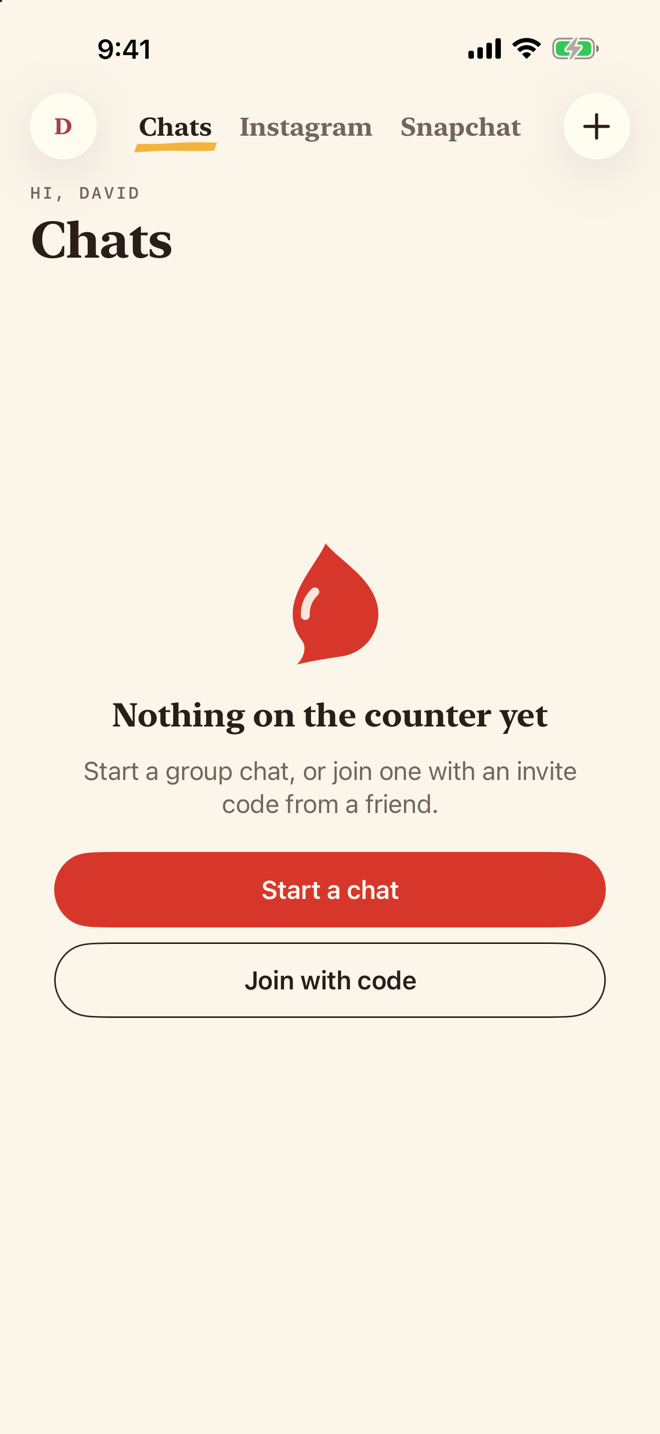
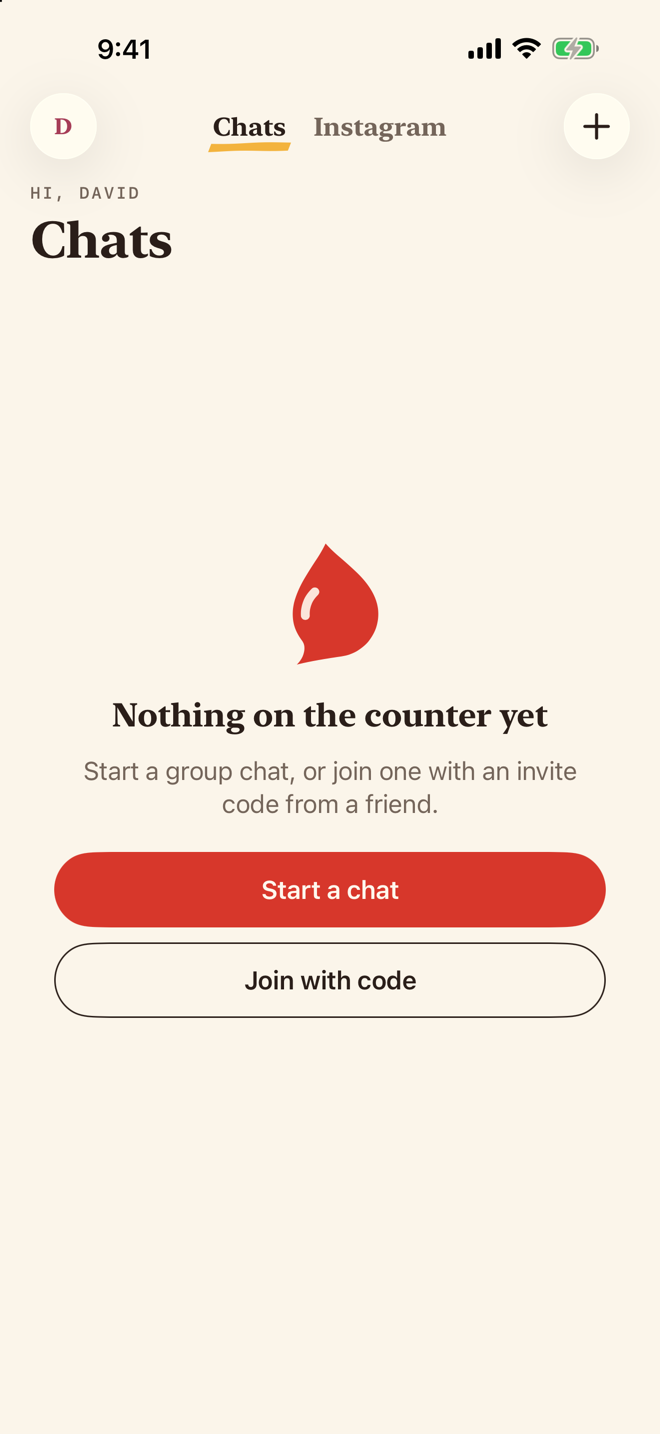
Docs: the two-page pager, and the Instagram page as the way in
DESIGN.md's Pager section and -screen table, the redesign screenshots
(inbox and Instagram page in light, dark and Extra Extra Large, one held
mid-swipe) and the project notes's two lines that still pointed at the camera
button.

Changed region(s): [[0.2121, 0.0614, 0.7879, 0.1227]]

diff --git a/docs/DESIGN.md b/docs/DESIGN.md
@@ -90,20 +90,20 @@ The old purple names (`Theme.accent`, `aiGradient`, `aiDiagonal`, `aiWash`, `ind
 
 ## Pager
 
-After sign-in, the home is three pages side by side: **Chats** (the inbox, first), **Instagram** and **Snapchat** (`ios/Ketchup/Views/HomePager.swift`). Swipe between them or tap a name. The app comes back to the page you were on last (`@AppStorage("home.page")`).
+After sign-in, the home is two pages side by side: **Chats** (the inbox, first) and **Instagram** (`ios/Ketchup/Views/HomePager.swift`). Swipe between them or tap a name. The app comes back to the page you were on last (`@AppStorage("home.page")`).
 
 <p>
 <img src="screens/redesign/inbox-light.png" width="200" alt="Chats, with the switcher in its top bar">
 <img src="screens/redesign/home-swipe-light.png" width="200" alt="Mid-swipe: the mustard mark slides from Chats toward Instagram">
-<img src="screens/redesign/home-snapchat-dark.png" width="200" alt="Snapchat's page for now, dark">
+<img src="screens/redesign/home-instagram-dark.png" width="200" alt="The Instagram page under the switcher, dark">
 </p>
 
 - **The switcher** sits in the middle of the Chats page's top bar, between its glass buttons: the names in New York, ink for the page you're on, `inkSoft` for the rest, and a mustard `MarkerStroke` under the current one that slides along as the pages scroll. Like a bar title it keeps its size past the default text size (long-press shows it big at accessibility sizes). The other pages leave that row free above their own bar.
 - **Paging is the system's** (a paging `ScrollView`). A tap on a name scrolls there with `Motion.settle`, or jumps with Reduce Motion on.
 - **In a chat the pages stay put** and the switcher fades out (`Motion.fade`), so the chat's back swipe works and its title takes the middle of the bar. The Chats page says so through `HomePagerState.locked`.
-- **Over a web page** a sideways swipe still pages, unless the page can scroll sideways itself (zoomed in, a wide carousel): then the page gets it, and the switcher still works. Vertical scrolling and taps are always the page's.
+- **Over a web page** a sideways swipe still pages, unless the page can scroll sideways itself (zoomed in, a wide carousel): then the page gets it, and the switcher still works. Vertical scrolling and taps are always the page's. From the left edge the pager wins even when the site could go back; the bar's back button does that.
 - **A page is built the first time you head its way**, then kept: a web page doesn't load until you go there, and doesn't reload as you swipe past.
-- **`HomePage.content`** is the one place that says what each page shows.
+- **`HomePage.all`** lists the pages, left to right, and `HomePage.content` says what each shows: another chat app is one more `.web(…)` in the list.
 
 ## Muse Spark screens
 
@@ -175,7 +175,7 @@ xcrun simctl launch --terminate-running-process <udid> com.vibetemp.ketchup -scr
 |---|---|
 | `list` | Every name; tap one to open it |
 | `design` | This system, live. Add `-section brand`, `buttons`, `marker`, `type`, `people`, `paper` or `colors` to scroll there |
-| `signin`, `signin-code`, `name`, `home`, `home-instagram`, `home-snapchat`, `inbox`, `inbox-empty`, `new-chat`, `join`, `chat`, `chat-jump`, `info`, `icon` | The chat screens (`Debug/CorePreviewScreen.swift`). `home` opens the pager on Chats (the same screen as `inbox`), `home-instagram` and `home-snapchat` on the other pages; the Instagram page shows the synthetic test thread, offline. `chat-jump` stages the jump-to-message highlight; `icon` renders the app icon |
+| `signin`, `signin-code`, `name`, `home`, `home-instagram`, `inbox`, `inbox-empty`, `new-chat`, `join`, `chat`, `chat-jump`, `info`, `icon` | The chat screens (`Debug/CorePreviewScreen.swift`). `home` opens the pager on Chats (the same screen as `inbox`), `home-instagram` on the Instagram page with the synthetic test thread, offline (add `-KetchupInstagramFixture NO` for the real site). `chat-jump` stages the jump-to-message highlight; `icon` renders the app icon |
 | `ai-catchup`, `ai-checked`, `ai-loading`, `ai-error`, `ai-empty`, `ai-ask`, `ai-ask-loading`, `ai-ask-error`, `ai-answer`, `ai-notfound` | The Muse Spark screens (`Debug/AIPreviewScreen.swift`). Add `-section for-you`, `plans`, `owes`, `questions` or `highlights` to scroll the brief there, `-delay 4` to land it late, `-reduceMotion YES` to see the Reduce Motion version |
 | `web-instagram`, `web-intro`, `web-reading`, `web-brief`, `web-error`, `web-quote`, `web-snapchat` | The web-chat screens (`Debug/WebChatPreviewScreen.swift`) on the synthetic Instagram thread. `web-instagram` is the real page on the bundled fixture; `web-brief` is a hand-written brief, not a Muse Spark call |
 

diff --git a/docs/screens/redesign/README.md b/docs/screens/redesign/README.md
@@ -1,6 +1,6 @@
 # Chat screens, redesigned
 
-The chat side of Ketchup on the diner-counter design system (`docs/DESIGN.md`): sign-in, the name step, the home pager (Chats, Instagram, Snapchat), the inbox and its sheets, the chat thread, the chat info sheet and the app icon. Taken on an iPhone 17 Pro Max simulator from the offline previews, November 3, 2026. Every file has a `-light` and a `-dark` version unless noted.
+The chat side of Ketchup on the diner-counter design system (`docs/DESIGN.md`): sign-in, the name step, the home pager (Chats and Instagram), the inbox and its sheets, the chat thread, the chat info sheet and the app icon. Taken on an iPhone 17 Pro Max simulator from the offline previews, November 3, 2026. Every file has a `-light` and a `-dark` version unless noted.
 
 <p>
 <img src="signin-light.png" width="200" alt="Sign-in">
@@ -16,15 +16,14 @@ The chat side of Ketchup on the diner-counter design system (`docs/DESIGN.md`): 
 | `name` | "What do your friends call you?" with a monogram that follows the name |
 | `inbox` | The home's Chats page: the switcher in the top bar (a mustard mark under the page you're on), serif title, monogram rows, mustard badges, the "302 new · catch up" nudge from 15 unread |
 | `inbox-empty` | "Nothing on the counter yet" |
-| `home-instagram` | The Instagram page: the switcher's row, then Instagram's own screen on the synthetic test thread (its look until `WebChatTab` lands) |
-| `home-snapchat` | The Snapchat page for now: "Snapchat is on the way" on an order ticket |
+| `home-instagram` | The Instagram page: the switcher's row, then `WebChatTab` (its slim bar, the site, the Catch me up pill) on the synthetic test thread |
 | `home-swipe-light` | Mid-swipe from Chats to Instagram: the mark slides along with the pages (light only) |
 | `new-chat`, `join` | The "+" menu's sheets; Join has 6 code boxes |
 | `chat` | The top of Breck: the ketchup "Catch me up" (prefetch landed, so "ready"), the "302 NEW" mark |
 | `chat-middle` | Scrolled into the thread: runs from one sender, names in their person colors |
 | `chat-jump` | A ref-chip jump mid-hold: the mustard marker behind Maya's "$90 each" |
 | `info` | The invite code on a ticket, Share and Copy, members, Leave chat |
-| `inbox-xxl-light`, `home-instagram-xxl-light`, `home-snapchat-xxl-light`, `chat-xxl-light` | Extra Extra Large text (light only); the switcher keeps its size, like a bar title |
+| `inbox-xxl-light`, `home-instagram-xxl-light`, `chat-xxl-light` | Extra Extra Large text (light only); the switcher keeps its size, like a bar title |
 | `icon`, `icon-home` | The app icon at 240, 60, 40 and 29 pt, and on the home screen (light only) |
 
 The old look is in `../foundation/` under the same names (`signin`, `inbox`, `inbox-empty`, `name`, `chat`, `info`).

diff --git a/CLAUDE.md b/CLAUDE.md
@@ -62,9 +62,9 @@ the viewer sets display name **David**, joins with the printed invite code, and 
 ## Instagram catch-up (experimental, not released)
 Code: `ios/Ketchup/WebChat/` is shared (`WebChatSource`, `WebChatBrowser`, `WebChatTab`,
 `WebChatSheet`, `WebChatAPI`); `ios/Ketchup/Instagram/` holds Instagram's reader and outline
-scripts, its fixtures, and `InstagramEntry.swift` (the inbox's camera button, which shows
-`WebChatTab(source: .instagram)` full screen until the home becomes a pager with a page per
-source). Edge function `catch-up-text`, migration `0004_text_brief_usage`. README has the summary.
+scripts and its fixtures. The way in is the signed-in home's Instagram page: `HomePage.all` in
+`Views/HomePager.swift` lists the pages, and `.web(source)` hosts `WebChatTab(source:)`.
+Edge function `catch-up-text`, migration `0004_text_brief_usage`. README has the summary.
 - The UI reuses `AI/` (CatchUpContent, SkimmingView, AIErrorCard, NotepadField, AnswerCard).
   `RefContext.hint` (default "Shows it in the chat") is the one seam: web chips show the whole
   message instead of jumping.
@@ -94,8 +94,8 @@ source). Edge function `catch-up-text`, migration `0004_text_brief_usage`. READM
   on both; an unauthenticated POST to each must return 401. The RLS suite covers the cap.
 - Simulator, offline (no sign-in, no network, no Muse Spark): `-screen web-instagram` (the page
   on the synthetic thread), `web-intro`, `web-reading`, `web-brief`, `web-error`, `web-quote`,
-  `web-snapchat`. Signed in: the inbox camera button (later the pager page) → `…` → Testing →
-  a test thread → Catch me up. `-KetchupInstagramFixture YES` opens the fixture instead of
+  `web-snapchat`. Signed in: swipe to the Instagram page (or tap Instagram at the top) → `…` →
+  Testing → a test thread → Catch me up. `-KetchupInstagramFixture YES` opens the fixture instead of
   instagram.com. The console prints counts only: `[instagram] read N messages, …`. Tap the
   menu once and wait: a second tap where the button was lands on "Last 120".
 - On David's phone: `xcrun devicectl list devices` for the udid, build with
